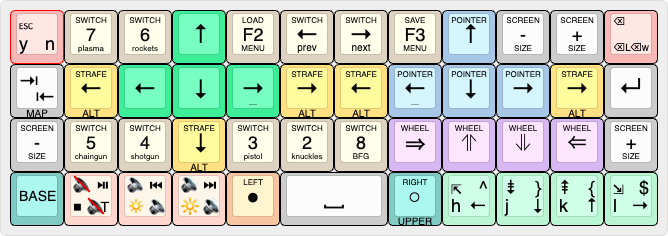
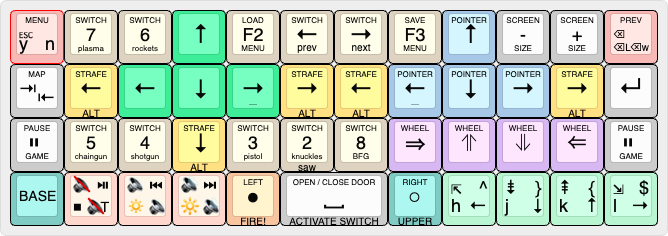
DOOM: BUGFIX related to preprocessor guarding of RGB Matrix when MOUSEKEY_ENABLE set to no

diff --git a/src/features/rgb.c b/src/features/rgb.c
@@ -598,17 +598,18 @@ bool rgb_matrix_indicators_user(void) {
             rgb_matrix_set_color(LED_ROW0_RIGHT_RING,   GREEN); // Page Up
             rgb_matrix_set_color(LED_ROW0_RIGHT_PINKY,  GREEN); // End
             break;
-#endif
+
         /* Classic Doom Layer
          * ┌─────────┬─────────┬─────────┬─────────┬─────────┬─────────┬─────────┬─────────┬─────────┬─────────┬─────────┬─────────┐
-         * │ESC n y n│         │         │    ↑    │         │         │         │         │Pointer ↑│         │         │ ⌫  ⌫L ⌫w│
+         * │ESC   y n│ Plasma  │ Rockets │    ↑    │Load Menu│ ← Prev  │ → Next  │Open Menu│Pointer ↑│ScrnSize-│ScrnSize+│ ⌫  ⌫L ⌫w│
          * ├─────────┼─────────┼─────────┼─────────┼─────────┼─────────┼─────────┼─────────┼─────────┼─────────┼─────────┼─────────┤
-         * │  ⇥   ⇤  │ Strife ←│    ←    │    ↓    │    →    │ Strife →│         │Pointer ←│Pointer ↓│Pointer →│ Strife →│    ↵    │
+         * │  ⇥   ⇤  │ Strife ←│    ←    │    ↓    │    →    │ Strife →│ Strife ←│Pointer ←│Pointer ↓│Pointer →│ Strife →│    ↵    │
          * ├─────────┼─────────┼─────────┼─────────┼─────────┼─────────┼─────────┼─────────┼─────────┼─────────┼─────────┼─────────┤
-         * │         │         │         │ Strife ↓│         │         │         │ Wheel → │ Wheel ↑ │ Wheel ↓ │ Wheel ← │         │
+         * │  Pause  │ Chaingun│ Shotgun │ Strife ↓│ Pistol  │ Knuckles│ BFG 9000│ Wheel → │ Wheel ↑ │ Wheel ↓ │ Wheel ← │  Pause  │
          * ├─────────┼─────────┼─────────┼─────────┼─────────┼─────────┴─────────┼─────────┼─────────┼─────────┼─────────┼─────────┤
-         * │  BASE   │🔇⏯ ⏹ C+M│🔉⏮ 🔅🔉 │🔊⏭ 🔆🔊 │Lft Click│   ␣           LSFT│Rgt Click│ ⇱ ^ h ← │ ⇟ } j ↓ │ ⇞ { k ↑ │ ⇲ $ l → │
+         * │  BASE   │🔇⏯ ⏹ C+M│🔉⏮ 🔅🔉 │🔊⏭ 🔆🔊 │Lft Click│         ␣         │Rgt Click│ ⇱ ^ h ← │ ⇟ } j ↓ │ ⇞ { k ↑ │ ⇲ $ l → │
          * └─────────┴─────────┴─────────┴─────────┴─────────┴───────────────────┴─────────┴─────────┴─────────┴─────────┴─────────┘
+         * NOTE: No need for RGB logic when the layer is inactive due to mouse keys
          */
        case _DOOM:
             rgb_off();
@@ -634,6 +635,7 @@ bool rgb_matrix_indicators_user(void) {
             rgb_matrix_set_color(LED_ROW1_LEFT_MIDDLE, GREEN); // Down
             rgb_matrix_set_color(LED_ROW1_LEFT_INDEX,  GREEN); // Right
             break;
+#endif
 
 #ifdef LEADER_ENABLE
         case _LEAD_ALPHA:

diff --git a/src/core/keymap.c b/src/core/keymap.c
@@ -270,16 +270,16 @@ const uint16_t PROGMEM keymaps[][MATRIX_ROWS][MATRIX_COLS] = {
  * ├─────────┼─────────┼─────────┼─────────┼─────────┼─────────┼─────────┼─────────┼─────────┼─────────┼─────────┼─────────┤
  * │  ⇥   ⇤  │ Strife ←│    ←    │    ↓    │    →    │ Strife →│ Strife ←│Pointer ←│Pointer ↓│Pointer →│ Strife →│    ↵    │
  * ├─────────┼─────────┼─────────┼─────────┼─────────┼─────────┼─────────┼─────────┼─────────┼─────────┼─────────┼─────────┤
- * │ScrnSize-│ Chaingun│ Shotgun │ Strife ↓│ Pistol  │ Knuckles│ BFG 9000│ Wheel → │ Wheel ↑ │ Wheel ↓ │ Wheel ← │ScrnSize+│
+ * │  Pause  │ Chaingun│ Shotgun │ Strife ↓│ Pistol  │ Knuckles│ BFG 9000│ Wheel → │ Wheel ↑ │ Wheel ↓ │ Wheel ← │  Pause  │
  * ├─────────┼─────────┼─────────┼─────────┼─────────┼─────────┴─────────┼─────────┼─────────┼─────────┼─────────┼─────────┤
- * │  BASE   │🔇⏯ ⏹ C+M│🔉⏮ 🔅🔉 │🔊⏭ 🔆🔊 │Lft Click│   ␣           LSFT│Rgt Click│ ⇱ ^ h ← │ ⇟ } j ↓ │ ⇞ { k ↑ │ ⇲ $ l → │
+ * │  BASE   │🔇⏯ ⏹ C+M│🔉⏮ 🔅🔉 │🔊⏭ 🔆🔊 │Lft Click│         ␣         │Rgt Click│ ⇱ ^ h ← │ ⇟ } j ↓ │ ⇞ { k ↑ │ ⇲ $ l → │
  * └─────────┴─────────┴─────────┴─────────┴─────────┴───────────────────┴─────────┴─────────┴─────────┴─────────┴─────────┘
  */
 #ifdef MOUSEKEY_ENABLE
 [_DOOM] = LAYOUT_planck_mit(
     DOOM_ESC, KC_7,        KC_6,    KC_UP,       KC_F2,   KC_1,        KC_0,        KC_F3,      MS_UP,   KC_MINS, KC_PLUS,     BSPC,
     TAB,      STRAFE_LEFT, KC_LEFT, KC_DOWN,     KC_RGHT, STRAFE_RGHT, STRAFE_LEFT, MS_LEFT,    MS_DOWN, MS_RGHT, STRAFE_RGHT, ENT,
-    KC_MINS,  KC_5,        KC_4,    STRAFE_DOWN, KC_3,    KC_2,        KC_8,        MS_WHLR,    MS_WHLU, MS_WHLD, MS_WHLL,     KC_PLUS,
+    KC_PAUS,  KC_5,        KC_4,    STRAFE_DOWN, KC_3,    KC_2,        KC_8,        MS_WHLR,    MS_WHLU, MS_WHLD, MS_WHLL,     KC_PAUS,
     BASE,     MUTE,        VOLD,    VOLU,        MS_BTN1,      KC_SPC,              RCLK_UPPER, HOME,    PGDN,    PGUP,        END
 ),
 #endif

diff --git a/README.md b/README.md
@@ -52,7 +52,7 @@ The [Inland MK-47](https://www.microcenter.com/product/661264/inland-47-keys-hot
 * Hot-swappable MX switch sockets (📌 3/5-pin)
 * Compact size, ideal for lap or tray table use
 
-The MK-47 has become a popular entry point for anyone experimenting with custom firmware, unusual layouts, or switch testing without spending much. Its compact footprint also makes it a convenient one-piece travel or backup board — it even fits neatly inside a Nintendo Switch carrying case, so it's easy to throw in a bag. Some people also repurpose the Planck form factor as a macropad.
+The MK-47 has become a popular entry point for anyone experimenting with custom firmware, unusual layouts, or switch testing without spending much. Its compact footprint makes it a convenient one-piece travel or backup board — it even fits neatly inside a Nintendo Switch carrying case, so it's easy to throw in a bag. Some people also repurpose the Planck form factor as a macropad.
 
 ### Inside the Box
 
@@ -431,7 +431,7 @@ The **center key** provides window and device controls:
 
 This mouse layer is typically accessed with a _left-palm tap_ from [**Base**](#base-modified-dvorak). A taller keycap (flat SA Row 3) makes the key easier to target while keeping the hands in home position for quick entry and exit.
 
-This layer is intended as a secondary fallback mouse input when other pointing devices are unavailable.
+This layer serves as a secondary/fallback mouse input, useful when other pointing devices are unavailable or for mouse-driven terminal emulator interaction.
 
 ### Doom Classic
 

diff --git a/CHANGELOG.md b/CHANGELOG.md
@@ -25,6 +25,9 @@
 
 ## 2026-08/25-TU
 - **Adjustment**: Added RGB (navy) to the Print **Leader** Favorites & History
+- **DOOM**
+  - `BUGFIX:` Added guard to **DOOM** RGB layer definition to exclude when `MOUSE_ENABLE` is set to `no` for RGB Matrix state.
+  - `NEW:` Added 2× `Pause` keys to `ROW2` on left and right sides.
 
 ## 2026-08/24-MO
 - **Leader**: fixed state output-related bugs.
